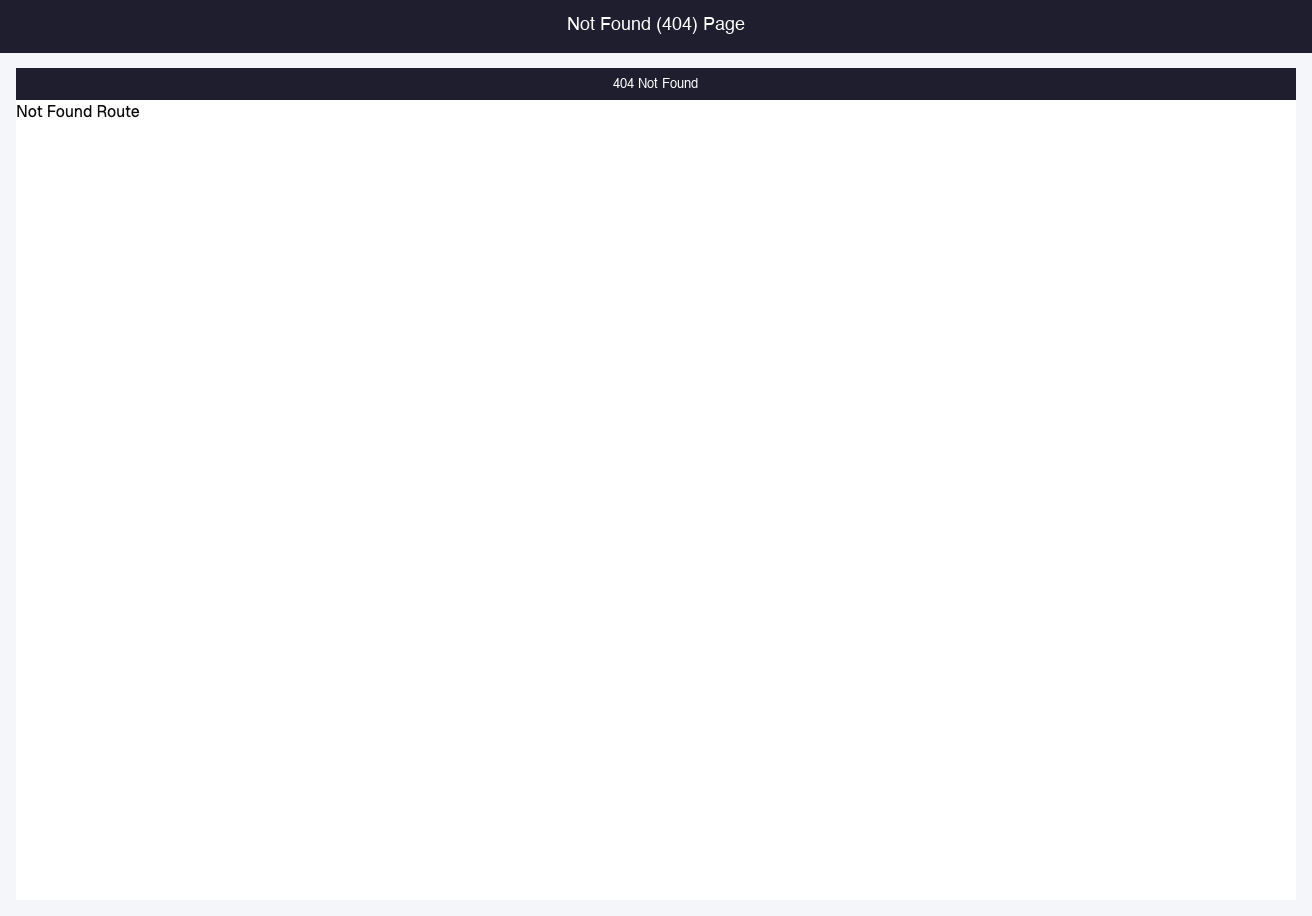
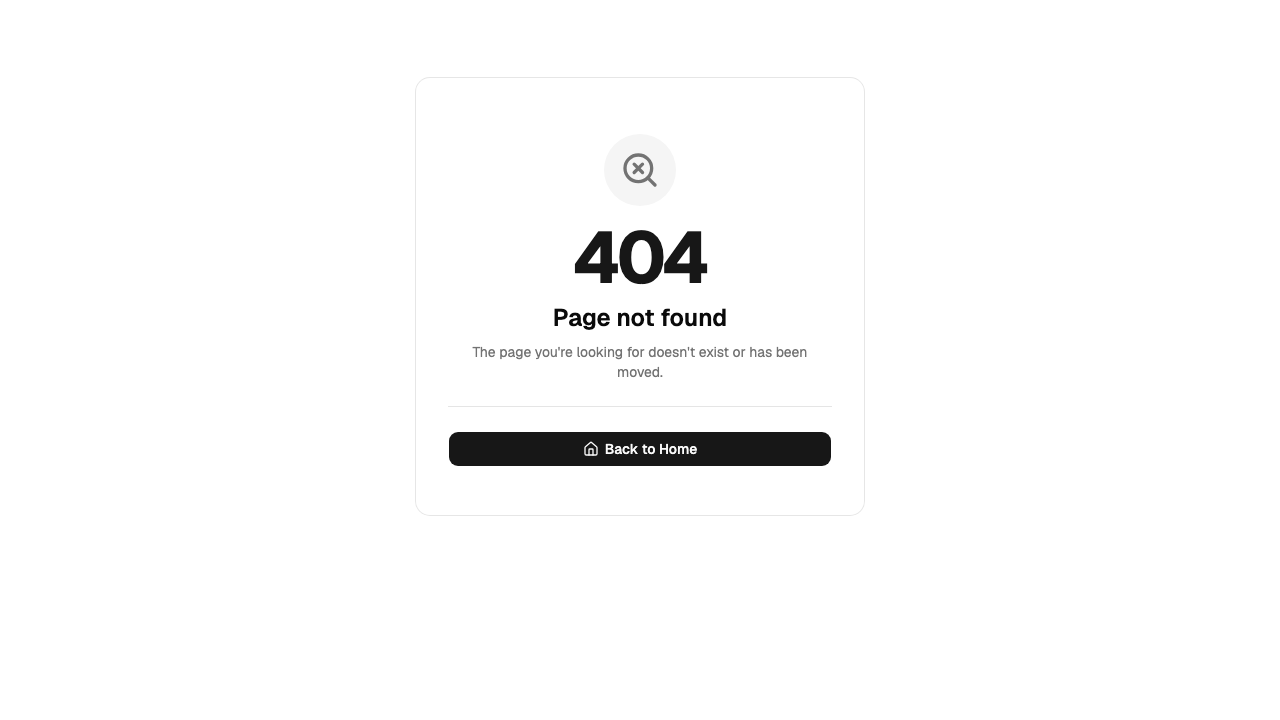
lesson_12 - demo

diff --git a/lesson_12/src/routes/NotFoundRoute.jsx b/lesson_12/src/routes/NotFoundRoute.jsx
@@ -1,7 +1,38 @@
+import { Link } from "react-router";
+import { Button } from "@/components/ui/button";
+import { Card, CardContent } from "@/components/ui/card";
+import { Separator } from "@/components/ui/separator";
+import { Home, SearchX } from "lucide-react";
+
 export default function NotFoundRoute() {
   return (
-    <>
-      <h3>Not Found Route</h3>
-    </>
+    <div className="flex min-h-[calc(100vh-8rem)] items-center justify-center p-4">
+      <Card className="w-full max-w-md text-center">
+        <CardContent className="pt-10 pb-8 px-8">
+          <div className="flex justify-center mb-4">
+            <div className="rounded-full bg-muted p-4">
+              <SearchX className="size-10 text-muted-foreground" />
+            </div>
+          </div>
+
+          <p className="text-7xl font-bold tracking-tighter text-primary mb-2">404</p>
+
+          <h1 className="text-2xl font-semibold mb-2">Page not found</h1>
+
+          <p className="text-muted-foreground text-sm mb-6">
+            The page you're looking for doesn't exist or has been moved.
+          </p>
+
+          <Separator className="mb-6" />
+
+          <Button asChild size="lg" className="w-full">
+            <Link to="/">
+              <Home />
+              Back to Home
+            </Link>
+          </Button>
+        </CardContent>
+      </Card>
+    </div>
   );
 }
